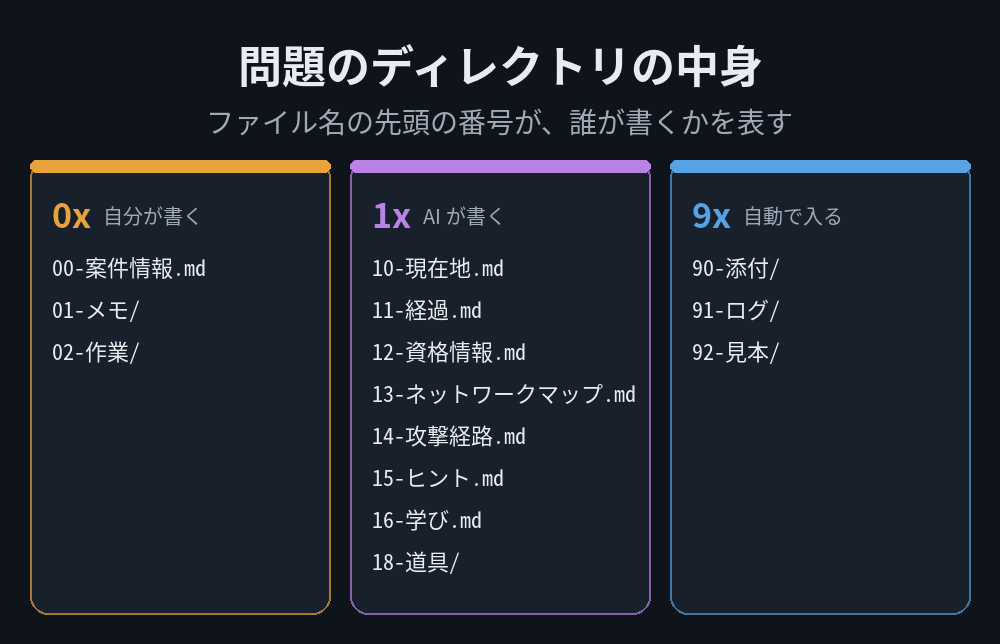
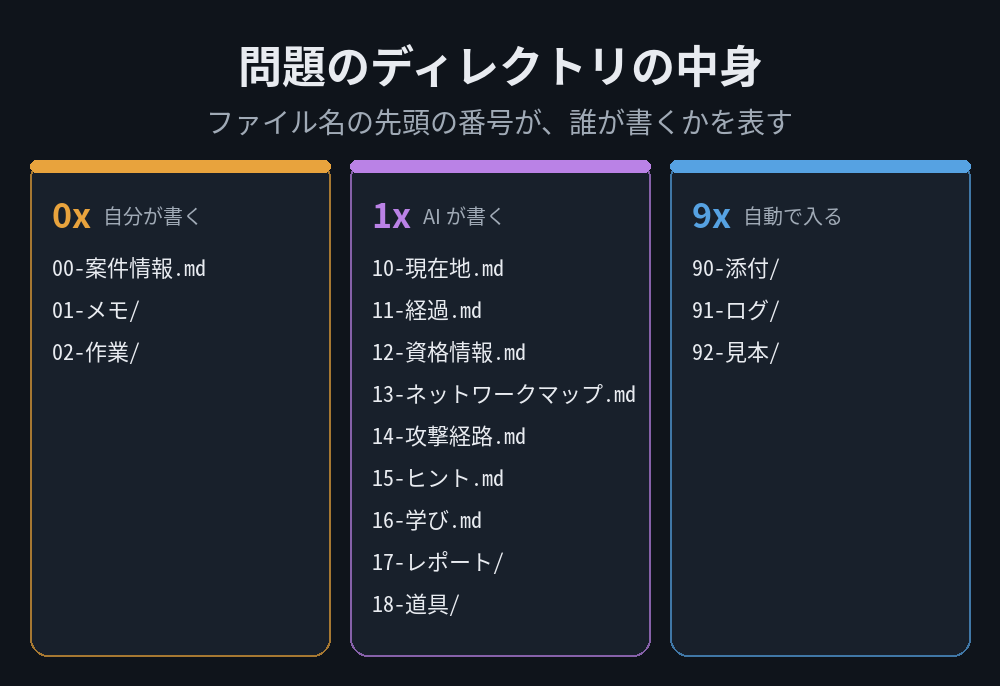
17 をレポートの置き場にする（17-レポート/。成果物は追わない）。README・CLAUDE.md・図・サイドバーのスニペットに 17 を、README の「AI が書く部分」に 17・18 の頼み方を足す

Changed region(s): [[0.031, 0.0621, 0.992, 0.9006], [0.031, 0.9317, 0.651, 0.9627], [0.682, 0.9317, 0.961, 0.9627]]

diff --git a/.obsidian/snippets/sidebar.css b/.obsidian/snippets/sidebar.css
@@ -39,6 +39,7 @@ body.theme-dark {
 	--hop-14: hsl(232 68% 79%);
 	--hop-15: hsl(248 65% 80%);
 	--hop-16: hsl(262 60% 80%);
+	--hop-17: hsl(276 55% 80%);
 	--hop-18: hsl(288 52% 80%);
 	--hop-90: hsl(220  8% 73%);
 	--hop-91: hsl(220  8% 72%);
@@ -55,6 +56,7 @@ body.theme-light {
 	--hop-14: hsl(232 50% 45%);
 	--hop-15: hsl(248 45% 47%);
 	--hop-16: hsl(262 42% 46%);
+	--hop-17: hsl(276 40% 43%);
 	--hop-18: hsl(288 38% 41%);
 	--hop-90: hsl(220  8% 35%);
 	--hop-91: hsl(220  8% 36%);
@@ -81,6 +83,7 @@ body {
 .nav-files-container > div > .tree-item:has(> .tree-item-self[data-path^="14-"]) { --hop: var(--hop-14); }
 .nav-files-container > div > .tree-item:has(> .tree-item-self[data-path^="15-"]) { --hop: var(--hop-15); }
 .nav-files-container > div > .tree-item:has(> .tree-item-self[data-path^="16-"]) { --hop: var(--hop-16); }
+.nav-files-container > div > .tree-item:has(> .tree-item-self[data-path^="17-"]) { --hop: var(--hop-17); }
 .nav-files-container > div > .tree-item:has(> .tree-item-self[data-path^="18-"]) { --hop: var(--hop-18); }
 .nav-files-container > div > .tree-item:has(> .tree-item-self[data-path^="90-"]) { --hop: var(--hop-90); }
 .nav-files-container > div > .tree-item:has(> .tree-item-self[data-path^="91-"]) { --hop: var(--hop-91); }
@@ -107,6 +110,7 @@ body {
 .nav-files-container > div > .tree-item:has(> .tree-item-self[data-path^="14-"]) { order: 14; }
 .nav-files-container > div > .tree-item:has(> .tree-item-self[data-path^="15-"]) { order: 15; }
 .nav-files-container > div > .tree-item:has(> .tree-item-self[data-path^="16-"]) { order: 16; }
+.nav-files-container > div > .tree-item:has(> .tree-item-self[data-path^="17-"]) { order: 17; }
 .nav-files-container > div > .tree-item:has(> .tree-item-self[data-path^="18-"]) { order: 18; }
 .nav-files-container > div > .tree-item:has(> .tree-item-self[data-path^="90-"]) { order: 90; }
 .nav-files-container > div > .tree-item:has(> .tree-item-self[data-path^="91-"]) { order: 91; }

diff --git a/CLAUDE.md b/CLAUDE.md
@@ -22,7 +22,7 @@ HTB などの問題を **1問ぶん** 入れるフォルダ。問題ごとに、
 
 端末で打ったコマンドと出力は `91-ログ/実行ログ.log` に残す（作者は、端末のログを自動で残す道具を使っている）。
 
-**残りは Claude に頼む。** 頼み方は「整理して」「見落としは？」「ヒント」「学びをまとめて」「〇〇するスクリプトを作って」。
+**残りは Claude に頼む。** 頼み方は「整理して」「見落としは？」「ヒント」「学びをまとめて」「レポートを書いて」「〇〇するスクリプトを作って」。
 
 ---
 
@@ -49,6 +49,7 @@ HTB などの問題を **1問ぶん** 入れるフォルダ。問題ごとに、
 | `14-攻撃経路.md` | この問題で、どうつながったか（通った道だけ。時系列） | 最初の足がかりから |
 | `15-ヒント.md` | 頼まれて出したヒントの履歴。新しいものが上 | ヒントを出すたび |
 | `16-学び.md` | 次の問題でも使えそうなもの。自分のノートに入れるかは自分が決める | 「学びをまとめて」のとき |
+| `17-レポート/` | 頼まれて書いたレポートの置き場。成果物は git で追わない（資格情報とフラグが平文で入る） | 「レポートを書いて」のとき |
 | `18-道具/` | 頼まれて作った使い捨てのスクリプト | 頼まれたとき |
 
 #### `10`・`11`・`14` は重複ではなく、切り口が違う
@@ -63,7 +64,7 @@ HTB などの問題を **1問ぶん** 入れるフォルダ。問題ごとに、
 
 - `10` と `11` は、うまくいったかを問わない。失敗した試しからも、`10` に載る事実は出る
 - `11` の「未消化の手がかり」に事実を書き写さない。書くのは「まだやっていない行為」だけで、事実は `10` を指す
-- `14` に失敗を混ぜない。失敗は `11`
+- `14` に失敗を混ぜない。失敗は `11`（レポートの再現の手順は `14` から作る）
 - `16` は別枠。この問題の事実ではなく「ほかの問題でも使えるかもしれない気づき」
 
 ### `9x` — 自動・置き場
@@ -84,7 +85,7 @@ HTB などの問題を **1問ぶん** 入れるフォルダ。問題ごとに、
 
 - **解くのは本人。** 頼まれていない答えや次の一手を、先に言わない（例外は `10-現在地.md` の「次の一手」1行だけ）
 - **ターゲットにリクエストを送らない。** コマンドを打つ・調べる・つなぐ、のどれも本人がやる。Claude が読むのは、このフォルダのファイルだけ
-- 頼まれる仕事は5つ: 整理・見落としの洗い出し・ヒント・学び・使い捨てのスクリプト
+- 頼まれる仕事は6つ: 整理・見落としの洗い出し・ヒント・学び・レポート・使い捨てのスクリプト
 
 ### 何をどこに書くか
 
@@ -135,6 +136,14 @@ HTB などの問題を **1問ぶん** 入れるフォルダ。問題ごとに、
 - `16-学び.md` は、頼まれたときだけ書く。材料はログ・`11`（潰した手こそ学びの源）・`14`・`15`・`01-メモ/`
 - 1つにつき、`16-学び.md` の `> [!example]` の5つを書く
 - **自分のノートへ入れるかは本人が決める。** こちらから「清書しましょうか」と持ちかけない
+
+### レポートを書く（「レポートを書いて」）
+
+- 置き場は `17-レポート/`。本文は `17-レポート/レポート.md`
+- 材料は `14-攻撃経路.md`（再現の手順はここから）・`12-資格情報.md`・`13-ネットワークマップ.md`・ログ・`90-添付/` の画面。手順には出どころ（`実行ログ.log:L####`）を付け、ログに無い手順は書かない
+- 形と言葉は、頼まれたとおりにする。提出先の雛形があれば、本人が `17-レポート/` に置く。指定が無ければ、概要・範囲・見つけた弱さ（1つずつ: 何が・どこに・どれほど危ないか・再現の手順・直し方）・付録（ホストとサービス・使った資格情報）の順
+- 画像は `![図 N: 説明](../90-添付/<画像>)` の標準の Markdown で書く（Word などへ変換する道具は `![[...]]` を読めない）
+- Word や PDF への変換は、頼まれてから（例: `pandoc レポート.md -o report.docx --reference-doc=<雛形>.docx`）
 
 ### 使い捨てのスクリプト（「〇〇するスクリプトを作って」）
 
